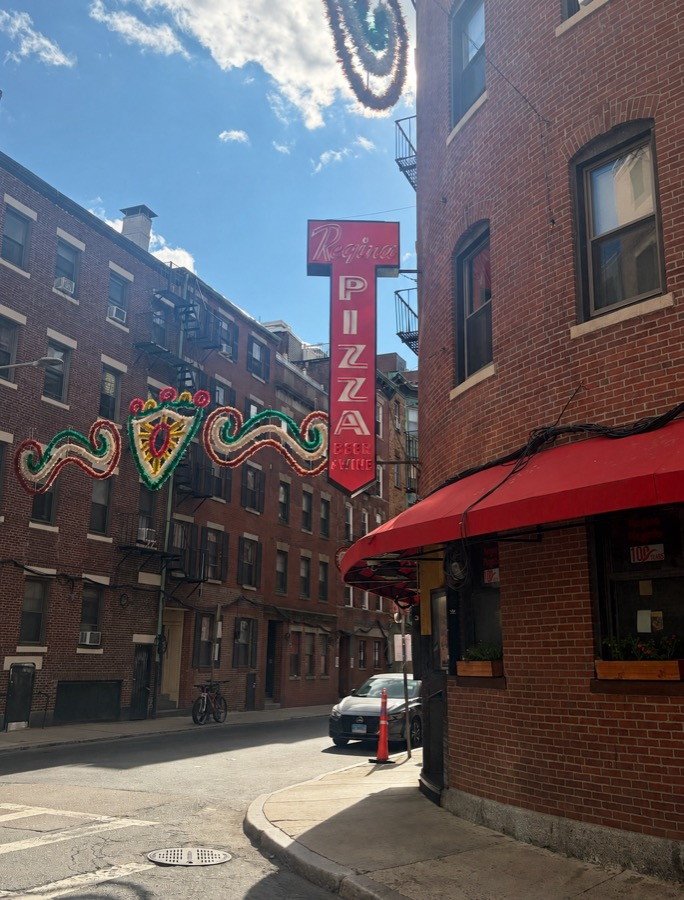
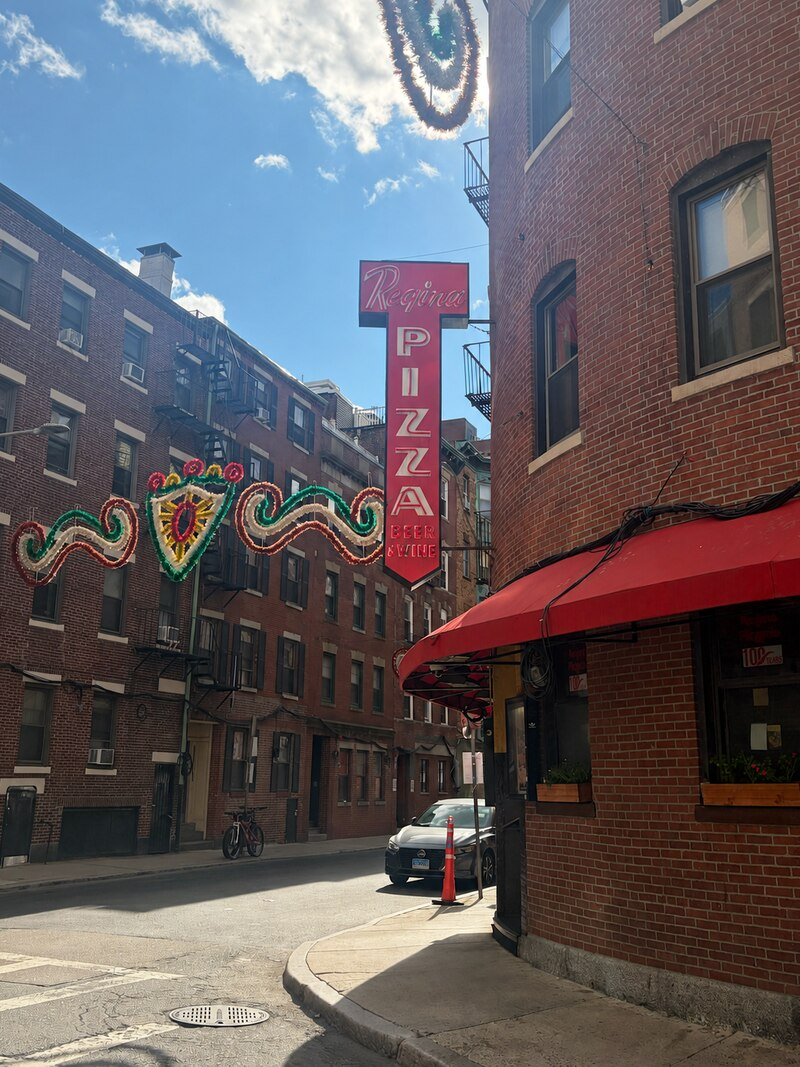
Two-column restaurant detail layout; fix Regina photo cropping
Restructure the restaurant detail page so the photo sits sticky in a
portrait column on the left while Review intelligence, Popularity this
week, and Price profile stack in a wider column on the right, instead of
one long single-column scroll. Full menu and data provenance stay
full-width below both columns.

Re-crop Pizzeria Regina's photo from the original portrait source
instead of the landscape version cropped for the old single-column hero
-- that landscape crop was fighting the new portrait box and lost the
bottom of the storefront. Giacomo's photo is left as-is: it is a
landscape-only source with the sign already at its bottom-most pixel row,
so no crop can add margin that was never captured in the original shot.

Claude-Session: https://claude.ai/code/session_01GUNTGcFAbdYpnakdvxctAS

diff --git a/apps/web/src/app/restaurants/[id]/page.tsx b/apps/web/src/app/restaurants/[id]/page.tsx
@@ -31,17 +31,12 @@ export default async function RestaurantPage({ params }: PageProps) {
   const weeklyUpdated = formatDate(restaurant.weekly_popularity_updated_at);
 
   return (
-    <div className="mx-auto max-w-2xl px-4 pb-16 pt-6 sm:px-6">
+    <div className="mx-auto max-w-5xl px-4 pb-16 pt-6 sm:px-6">
       <Link href="/" className="text-sm text-basil underline underline-offset-4">
         Back to search
       </Link>
 
-      {/* Hero / identity */}
-      <RestaurantPhoto
-        src={restaurant.photo_url}
-        alt={restaurant.name}
-        className="mt-4 h-48 w-full rounded-3xl bg-linen-2 object-contain sm:h-64"
-      />
+      {/* Identity header */}
       <h1 className="mt-4 font-[family-name:var(--font-fraunces)] text-4xl font-medium leading-tight tracking-tight">
         {restaurant.name}
       </h1>
@@ -131,61 +126,74 @@ export default async function RestaurantPage({ params }: PageProps) {
 
       {lastRefreshed ? <p className="mt-3 text-xs text-muted">Last data refresh: {lastRefreshed}</p> : null}
 
-      {/* Google review intelligence */}
-      <div className="mt-8">
-        <h2 className="font-[family-name:var(--font-fraunces)] text-xl font-medium">Review intelligence</h2>
-        <p className="mt-1 text-xs text-muted">
-          Google&apos;s AI-generated review summary — a single narrative, not a per-aspect breakdown (Google
-          doesn&apos;t expose food/service/value/atmosphere separately here).
-        </p>
-        <div className="mt-3">
-          <ReviewSummaryCard
-            summary={restaurant.review_summary}
-            disclosure={restaurant.review_summary_disclosure}
-            reviewsUri={restaurant.reviews_uri}
+      {/* Photo (left) + review/popularity/price stats (right) side by side,
+          rather than stacked full-width, so the page reads in one screenful
+          instead of a long scroll of sequential sections. */}
+      <div className="mt-6 grid gap-8 lg:grid-cols-[320px_1fr]">
+        <div className="lg:sticky lg:top-20 lg:self-start">
+          <RestaurantPhoto
+            src={restaurant.photo_url}
+            alt={restaurant.name}
+            className="aspect-[3/4] w-full max-w-xs rounded-3xl bg-linen-2 object-cover lg:max-w-none"
           />
         </div>
-      </div>
 
-      {/* Popularity / demand */}
-      <div className="mt-8">
-        <h2 className="font-[family-name:var(--font-fraunces)] text-xl font-medium">Popularity this week</h2>
-        {restaurant.peak_hours_text ? (
-          <div className="mt-2 flex flex-wrap gap-2 text-sm">
-            <span className="rounded-full bg-linen-2 px-3 py-1">Typically busiest {restaurant.peak_hours_text}</span>
+        <div className="flex flex-col gap-8">
+          {/* Google review intelligence */}
+          <div>
+            <h2 className="font-[family-name:var(--font-fraunces)] text-xl font-medium">Review intelligence</h2>
+            <p className="mt-1 text-xs text-muted">
+              Google&apos;s AI-generated review summary — a single narrative, not a per-aspect breakdown (Google
+              doesn&apos;t expose food/service/value/atmosphere separately here).
+            </p>
+            <div className="mt-3">
+              <ReviewSummaryCard
+                summary={restaurant.review_summary}
+                disclosure={restaurant.review_summary_disclosure}
+                reviewsUri={restaurant.reviews_uri}
+              />
+            </div>
           </div>
-        ) : null}
-        {restaurant.hourly_popularity ? (
-          <p className="mt-2 text-xs text-muted">
-            Hour-by-hour, historical pattern from Google&apos;s Popular Times data, not a live reading.
-            {weeklyUpdated ? ` Last updated ${weeklyUpdated}.` : ""}
-          </p>
-        ) : null}
-        <div className="mt-3 rounded-3xl border border-line bg-card p-5">
-          {restaurant.hourly_popularity ? (
-            <BusynessChart hourly={restaurant.hourly_popularity} />
-          ) : restaurant.weekly_popularity ? (
-            <NotConnectedCard
-              title="Hour-by-hour not available yet"
-              message="We have this restaurant's daily pattern but not the hourly breakdown yet — see Data sources below for details."
-            />
-          ) : restaurant.busyness_percent != null ? (
-            <NotConnectedCard
-              title={formatBusynessPercent(restaurant.busyness_percent)}
-              message="That's the current-hour reading. The full weekly pattern isn't available for this restaurant yet — see Data sources below for details."
-            />
-          ) : (
-            <NotConnectedCard
-              title="Crowd data not available yet"
-              message="We don't have foot-traffic data for this restaurant yet. See Data sources below for details."
-            />
-          )}
-        </div>
-      </div>
 
-      {/* Price profile */}
-      <div className="mt-8">
-        <PriceProfileCard profile={restaurant.price_profile} restaurantName={restaurant.name} />
+          {/* Popularity / demand */}
+          <div>
+            <h2 className="font-[family-name:var(--font-fraunces)] text-xl font-medium">Popularity this week</h2>
+            {restaurant.peak_hours_text ? (
+              <div className="mt-2 flex flex-wrap gap-2 text-sm">
+                <span className="rounded-full bg-linen-2 px-3 py-1">Typically busiest {restaurant.peak_hours_text}</span>
+              </div>
+            ) : null}
+            {restaurant.hourly_popularity ? (
+              <p className="mt-2 text-xs text-muted">
+                Hour-by-hour, historical pattern from Google&apos;s Popular Times data, not a live reading.
+                {weeklyUpdated ? ` Last updated ${weeklyUpdated}.` : ""}
+              </p>
+            ) : null}
+            <div className="mt-3 rounded-3xl border border-line bg-card p-5">
+              {restaurant.hourly_popularity ? (
+                <BusynessChart hourly={restaurant.hourly_popularity} />
+              ) : restaurant.weekly_popularity ? (
+                <NotConnectedCard
+                  title="Hour-by-hour not available yet"
+                  message="We have this restaurant's daily pattern but not the hourly breakdown yet — see Data sources below for details."
+                />
+              ) : restaurant.busyness_percent != null ? (
+                <NotConnectedCard
+                  title={formatBusynessPercent(restaurant.busyness_percent)}
+                  message="That's the current-hour reading. The full weekly pattern isn't available for this restaurant yet — see Data sources below for details."
+                />
+              ) : (
+                <NotConnectedCard
+                  title="Crowd data not available yet"
+                  message="We don't have foot-traffic data for this restaurant yet. See Data sources below for details."
+                />
+              )}
+            </div>
+          </div>
+
+          {/* Price profile */}
+          <PriceProfileCard profile={restaurant.price_profile} restaurantName={restaurant.name} />
+        </div>
       </div>
 
       {/* Full menu */}
